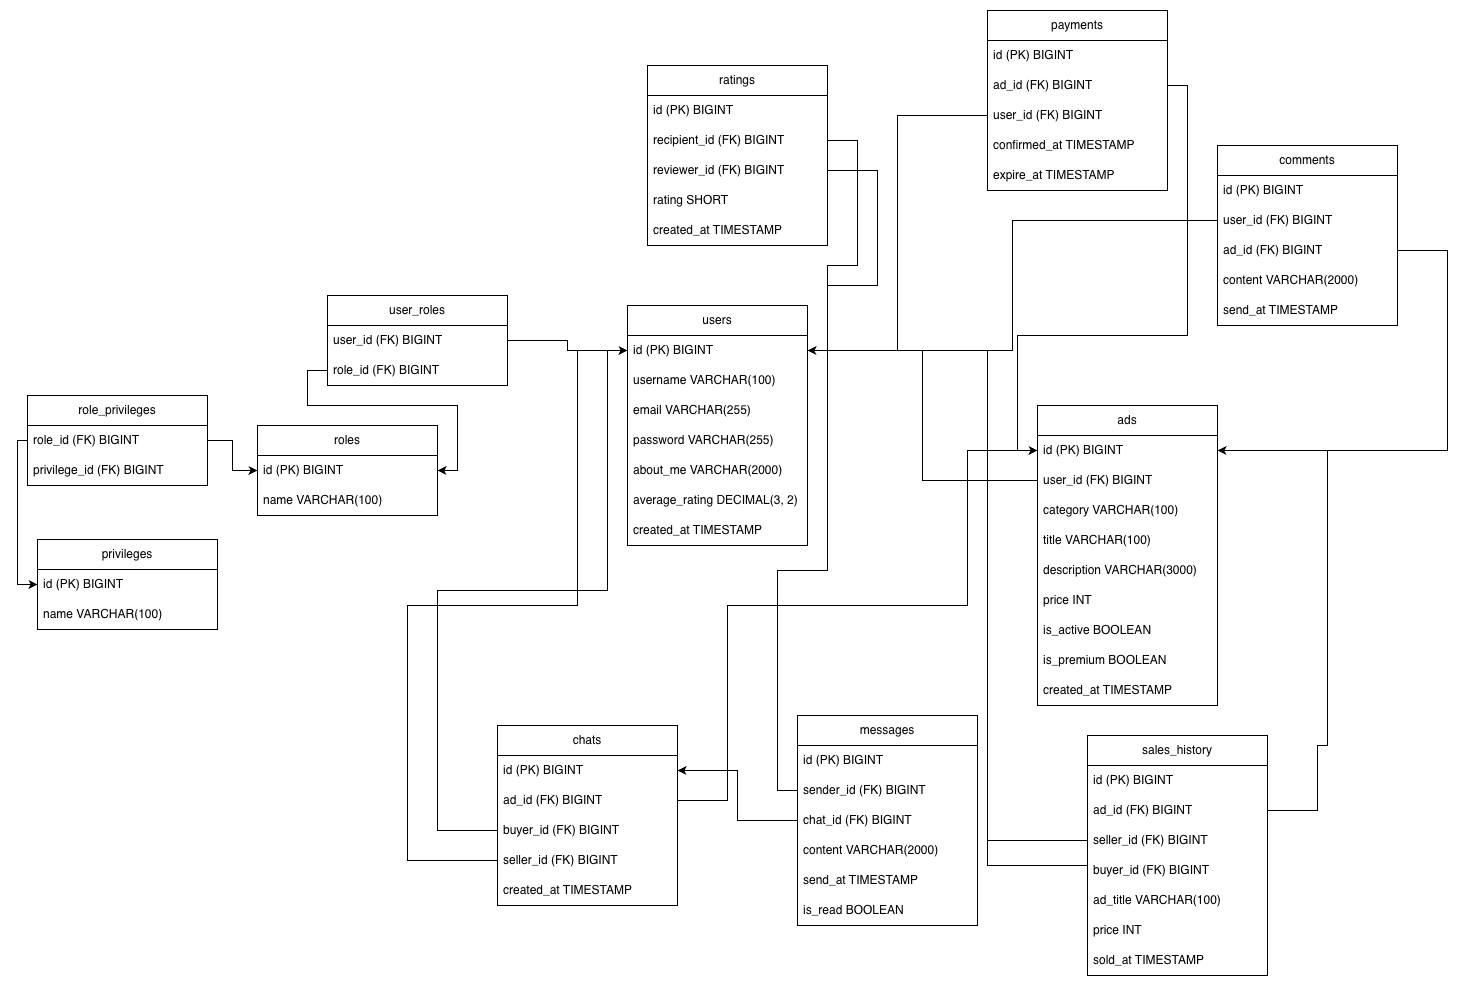
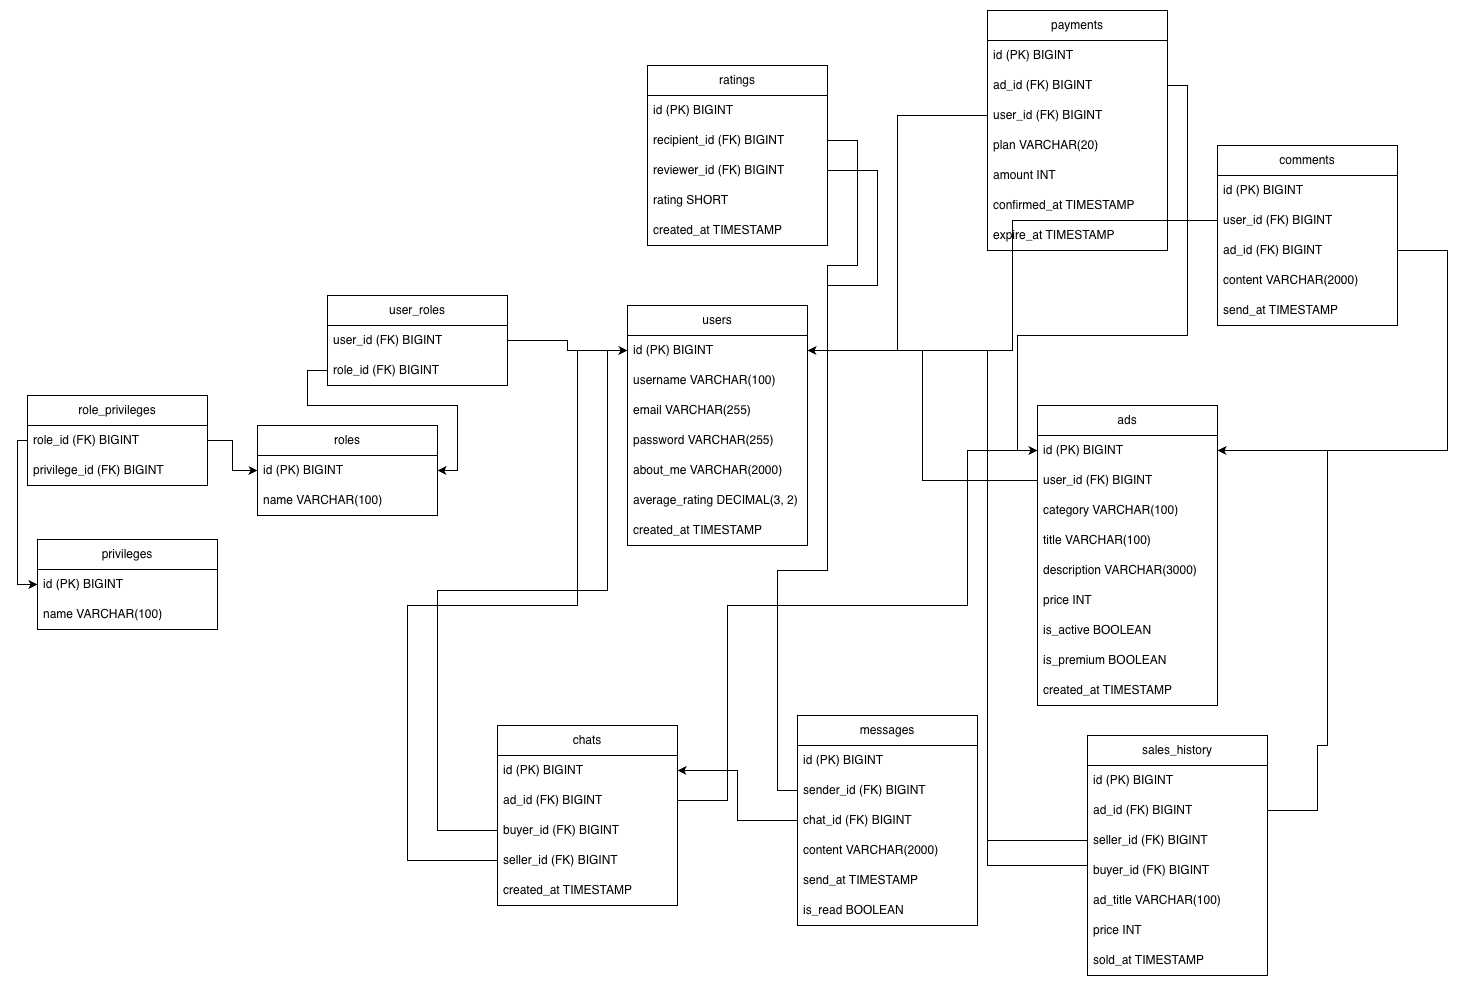
PaymentService

diff --git a/PersonalAdsSystem/src/main/java/com/senla/pas/service/PaymentService.java b/PersonalAdsSystem/src/main/java/com/senla/pas/service/PaymentService.java
@@ -1,0 +1,127 @@
+package com.senla.pas.service;
+
+import com.senla.pas.dao.AdDao;
+import com.senla.pas.dao.PaymentDao;
+import com.senla.pas.dao.UserDao;
+import com.senla.pas.dto.request.PaymentRequest;
+import com.senla.pas.dto.response.PaymentResponse;
+import com.senla.pas.entity.Ad;
+import com.senla.pas.entity.Payment;
+import com.senla.pas.entity.User;
+import com.senla.pas.enums.PromotionPlan;
+import com.senla.pas.exception.BadRequestException;
+import com.senla.pas.exception.ForbiddenException;
+import com.senla.pas.exception.ResourceNotFoundException;
+import com.senla.pas.mapper.PaymentMapper;
+import com.senla.pas.security.SecurityUtils;
+import org.slf4j.Logger;
+import org.slf4j.LoggerFactory;
+import org.springframework.beans.factory.annotation.Autowired;
+import org.springframework.stereotype.Service;
+import org.springframework.transaction.annotation.Transactional;
+
+import java.time.LocalDateTime;
+import java.util.List;
+
+@Service
+@Transactional(readOnly = true)
+public class PaymentService {
+
+    private final PaymentDao paymentDao;
+    private final AdDao adDao;
+    private final UserDao userDao;
+    private final PaymentMapper paymentMapper;
+    private static final Logger logger = LoggerFactory.getLogger(PaymentService.class);
+
+    @Autowired
+    public PaymentService(PaymentDao paymentDao, AdDao adDao, UserDao userDao, PaymentMapper paymentMapper) {
+        this.paymentDao = paymentDao;
+        this.adDao = adDao;
+        this.userDao = userDao;
+        this.paymentMapper = paymentMapper;
+    }
+
+    public PaymentResponse getPaymentById(Long paymentId) {
+        Payment payment = paymentDao.findById(paymentId).orElseThrow(() -> new ResourceNotFoundException("Платеж не найден: " + paymentId));
+        Long userId = SecurityUtils.getCurrentUserId();
+
+        if (!userId.equals(payment.getUser().getId()) && !SecurityUtils.hasRole("ROLE_ADMIN")) {
+            throw new ForbiddenException("Недостаточно прав для просмотра платежа");
+        }
+
+        logger.info("Получение продвижения по ID: {}", paymentId);
+        return paymentMapper.toResponse(payment);
+    }
+
+    public List<PaymentResponse> getPaymentsByAd(Long adId) {
+        Long userId = SecurityUtils.getCurrentUserId();
+
+        Ad ad = adDao.findById(adId).orElseThrow(() -> new ResourceNotFoundException("Объявление не найдено: " + adId));
+
+        if (!ad.getUser().getId().equals(userId) && !SecurityUtils.hasRole("ROLE_ADMIN")) {
+            throw new ForbiddenException("Нет доступа к платежам этого объявления");
+        }
+
+        logger.info("Получение всех продвижений объявления: {}", adId);
+        return paymentMapper.toResponseList(paymentDao.findByAdId(adId));
+    }
+
+    public PaymentResponse getActivePaymentByAd(Long adId) {
+        Long userId = SecurityUtils.getCurrentUserId();
+
+        Ad ad = adDao.findById(adId).orElseThrow(() -> new ResourceNotFoundException("Объявление не найдено: " + adId));
+
+        if (!ad.getUser().getId().equals(userId) && !SecurityUtils.hasRole("ROLE_ADMIN")) {
+            throw new ForbiddenException("Нет доступа к платежам этого объявления");
+        }
+
+        logger.info("Получение активного продвижения объявления {}", adId);
+        return paymentMapper.toResponse(paymentDao.findActiveByAdId(adId).orElseThrow(() -> new ResourceNotFoundException("Активное продвижение по объявлению не найдено")));
+    }
+
+    public List<PaymentResponse> getMyPayments() {
+        Long userId = SecurityUtils.getCurrentUserId();
+        logger.info("Получение собственных продвижений пользователем: {}", userId);
+        return paymentMapper.toResponseList(paymentDao.findByUserId(userId));
+    }
+
+    @Transactional
+    public PaymentResponse createPayment(PaymentRequest request) {
+        Long userId = SecurityUtils.getCurrentUserId();
+
+        Ad ad = adDao.findById(request.getAdId()).orElseThrow(() -> new ResourceNotFoundException("Объявление для продвижения не найдено: " + request.getAdId()));
+
+        if (!userId.equals(ad.getUser().getId())) {
+            throw new ForbiddenException("Продвигать можно только свое объявление");
+        }
+
+        if (!ad.getIsActive()) {
+            throw new BadRequestException("Нельзя продвигать неактивное объявление");
+        }
+
+        if (ad.getIsPremium()) {
+            throw new BadRequestException("У объявления уже есть активное продвижение");
+        }
+
+        User user = userDao.findById(userId).orElseThrow(() -> new ResourceNotFoundException("Не найден пользователь: " + userId));
+
+        LocalDateTime now = LocalDateTime.now();
+        PromotionPlan plan = request.getPlan();
+
+        Payment payment = new Payment();
+        payment.setAd(ad);
+        payment.setUser(user);
+        payment.setPlan(plan);
+        payment.setAmount(plan.getPrice());
+        payment.setConfirmedAt(now);
+        payment.setExpireAt(now.plusDays(plan.getDays()));
+
+        paymentDao.save(payment);
+
+        adDao.updatePremiumStatus(request.getAdId(), true);
+
+        logger.info("Создан платёж для объявления {} пользователем {}. Тариф: {}, срок: {} дней", request.getAdId(), userId, plan, plan.getDays());
+
+        return paymentMapper.toResponse(payment);
+    }
+}

diff --git a/PersonalAdsSystem/src/main/java/com/senla/pas/dao/PaymentDao.java b/PersonalAdsSystem/src/main/java/com/senla/pas/dao/PaymentDao.java
@@ -6,11 +6,13 @@ import org.springframework.stereotype.Repository;
 
 import java.time.LocalDateTime;
 import java.util.List;
+import java.util.Optional;
 
 @Repository
 public class PaymentDao extends AbstractJpaDao<Payment, Long> {
 
     private static final String FIND_ACTIVE_BY_AD_ID_JPQL = "SELECT p FROM Payment p WHERE p.ad.id = :adId AND p.expireAt > :now";
+    private static final String FIND_BY_AD_ID_JPQL = "SELECT p FROM Payment p WHERE p.ad.id = :adId";
     private static final String FIND_BY_USER_ID_JPQL = "SELECT p FROM Payment p WHERE p.user.id = :userId";
 
     @Override
@@ -18,12 +20,23 @@ public class PaymentDao extends AbstractJpaDao<Payment, Long> {
         return Payment.class;
     }
 
-    public List<Payment> findActiveByAdId(Long adId) {
+    public List<Payment> findByAdId(Long adId) {
         try {
-            return entityManager.createQuery(FIND_ACTIVE_BY_AD_ID_JPQL, Payment.class)
+            return entityManager.createQuery(FIND_BY_AD_ID_JPQL, Payment.class)
+                    .setParameter("adId", adId)
+                    .getResultList();
+        } catch (Exception e) {
+            logger.error("Ошибка получения платежей по adId: {}", adId, e);
+            throw new DaoException("Ошибка получения платежей по adId: " + adId, e);
+        }
+    }
+
+    public Optional<Payment> findActiveByAdId(Long adId) {
+        try {
+            return Optional.of(entityManager.createQuery(FIND_ACTIVE_BY_AD_ID_JPQL, Payment.class)
                     .setParameter("adId", adId)
                     .setParameter("now", LocalDateTime.now())
-                    .getResultList();
+                    .getSingleResult());
         } catch (Exception e) {
             logger.error("Ошибка получения активных платежей по adId: {}", adId, e);
             throw new DaoException("Ошибка получения активных платежей по adId: " + adId, e);

diff --git a/PersonalAdsSystem/src/main/java/com/senla/pas/enums/PromotionPlan.java b/PersonalAdsSystem/src/main/java/com/senla/pas/enums/PromotionPlan.java
@@ -1,0 +1,17 @@
+package com.senla.pas.enums;
+
+import lombok.AllArgsConstructor;
+import lombok.Getter;
+
+@Getter
+@AllArgsConstructor
+public enum PromotionPlan {
+    DAY(1, 100, "1 день"),
+    THREE_DAYS(3, 270, "3 дня"),
+    WEEK(7, 500, "1 неделя"),
+    MONTH(30, 1500, "1 месяц");
+
+    private final int days;
+    private final int price;
+    private final String description;
+}

diff --git a/PersonalAdsSystem/src/main/java/com/senla/pas/entity/Payment.java b/PersonalAdsSystem/src/main/java/com/senla/pas/entity/Payment.java
@@ -1,5 +1,6 @@
 package com.senla.pas.entity;
 
+import com.senla.pas.enums.PromotionPlan;
 import jakarta.persistence.*;
 import lombok.AllArgsConstructor;
 import lombok.Getter;
@@ -28,6 +29,13 @@ public class Payment {
     @ManyToOne(fetch = FetchType.LAZY)
     @JoinColumn(name = "user_id", nullable = false)
     private User user;
+
+    @Enumerated(EnumType.STRING)
+    @Column(name = "plan", nullable = false)
+    private PromotionPlan plan;
+
+    @Column(name = "amount", nullable = false)
+    private Integer amount;
 
     @Column(name = "confirmed_at", nullable = false)
     private LocalDateTime confirmedAt;

diff --git a/PersonalAdsSystem/src/main/java/com/senla/pas/enums/AdSort.java b/PersonalAdsSystem/src/main/java/com/senla/pas/enums/AdSort.java
@@ -1,8 +1,10 @@
 package com.senla.pas.enums;
 
+import lombok.AllArgsConstructor;
 import lombok.Getter;
 
 @Getter
+@AllArgsConstructor
 public enum AdSort {
     DATE("createdAt", false),
     PRICE("price", false),
@@ -11,10 +13,4 @@ public enum AdSort {
 
     private final String fieldName;
     private final boolean isUserField;
-
-    AdSort(String fieldName, boolean isUserField) {
-        this.fieldName = fieldName;
-        this.isUserField = isUserField;
-    }
-
 }

diff --git a/PersonalAdsSystem/src/main/java/com/senla/pas/enums/AdCategory.java b/PersonalAdsSystem/src/main/java/com/senla/pas/enums/AdCategory.java
@@ -1,8 +1,10 @@
 package com.senla.pas.enums;
 
+import lombok.AllArgsConstructor;
 import lombok.Getter;
 
 @Getter
+@AllArgsConstructor
 public enum AdCategory {
     ELECTRONICS("Электроника"),
     TRANSPORT("Транспорт"),
@@ -16,9 +18,4 @@ public enum AdCategory {
     OTHER("Другое");
 
     private final String displayName;
-
-    AdCategory(String displayName) {
-        this.displayName = displayName;
-    }
-
 }

diff --git a/PersonalAdsSystem/src/main/java/com/senla/pas/mapper/PaymentMapper.java b/PersonalAdsSystem/src/main/java/com/senla/pas/mapper/PaymentMapper.java
@@ -11,13 +11,6 @@ import java.util.List;
 @Mapper(componentModel = "spring", uses = UserMapper.class)
 public interface PaymentMapper {
 
-    @Mapping(target = "id", ignore = true)
-    @Mapping(target = "ad", ignore = true)
-    @Mapping(target = "user", ignore = true)
-    @Mapping(target = "confirmedAt", expression = "java(java.time.LocalDateTime.now())")
-    @Mapping(target = "expireAt", ignore = true)
-    Payment toEntity(PaymentRequest paymentRequest);
-
     @Mapping(target = "adId", source = "ad.id")
     @Mapping(target = "user", source = "user")
     PaymentResponse toResponse(Payment payment);

diff --git a/PersonalAdsSystem/src/main/java/com/senla/pas/dto/request/PaymentRequest.java b/PersonalAdsSystem/src/main/java/com/senla/pas/dto/request/PaymentRequest.java
@@ -1,5 +1,6 @@
 package com.senla.pas.dto.request;
 
+import com.senla.pas.enums.PromotionPlan;
 import jakarta.validation.constraints.NotNull;
 import lombok.AllArgsConstructor;
 import lombok.Data;
@@ -12,4 +13,7 @@ public class PaymentRequest {
 
     @NotNull(message = "ID объявления не может быть null")
     private Long adId;
+
+    @NotNull(message = "Тариф не может быть null")
+    private PromotionPlan plan;
 }

diff --git a/PersonalAdsSystem/src/main/java/com/senla/pas/dto/response/PaymentResponse.java b/PersonalAdsSystem/src/main/java/com/senla/pas/dto/response/PaymentResponse.java
@@ -1,5 +1,6 @@
 package com.senla.pas.dto.response;
 
+import com.senla.pas.enums.PromotionPlan;
 import lombok.AllArgsConstructor;
 import lombok.Data;
 import lombok.NoArgsConstructor;
@@ -14,6 +15,8 @@ public class PaymentResponse {
     private Long id;
     private Long adId;
     private UserShortResponse user;
+    private PromotionPlan plan;
+    private Integer amount;
     private LocalDateTime confirmedAt;
     private LocalDateTime expireAt;
 }